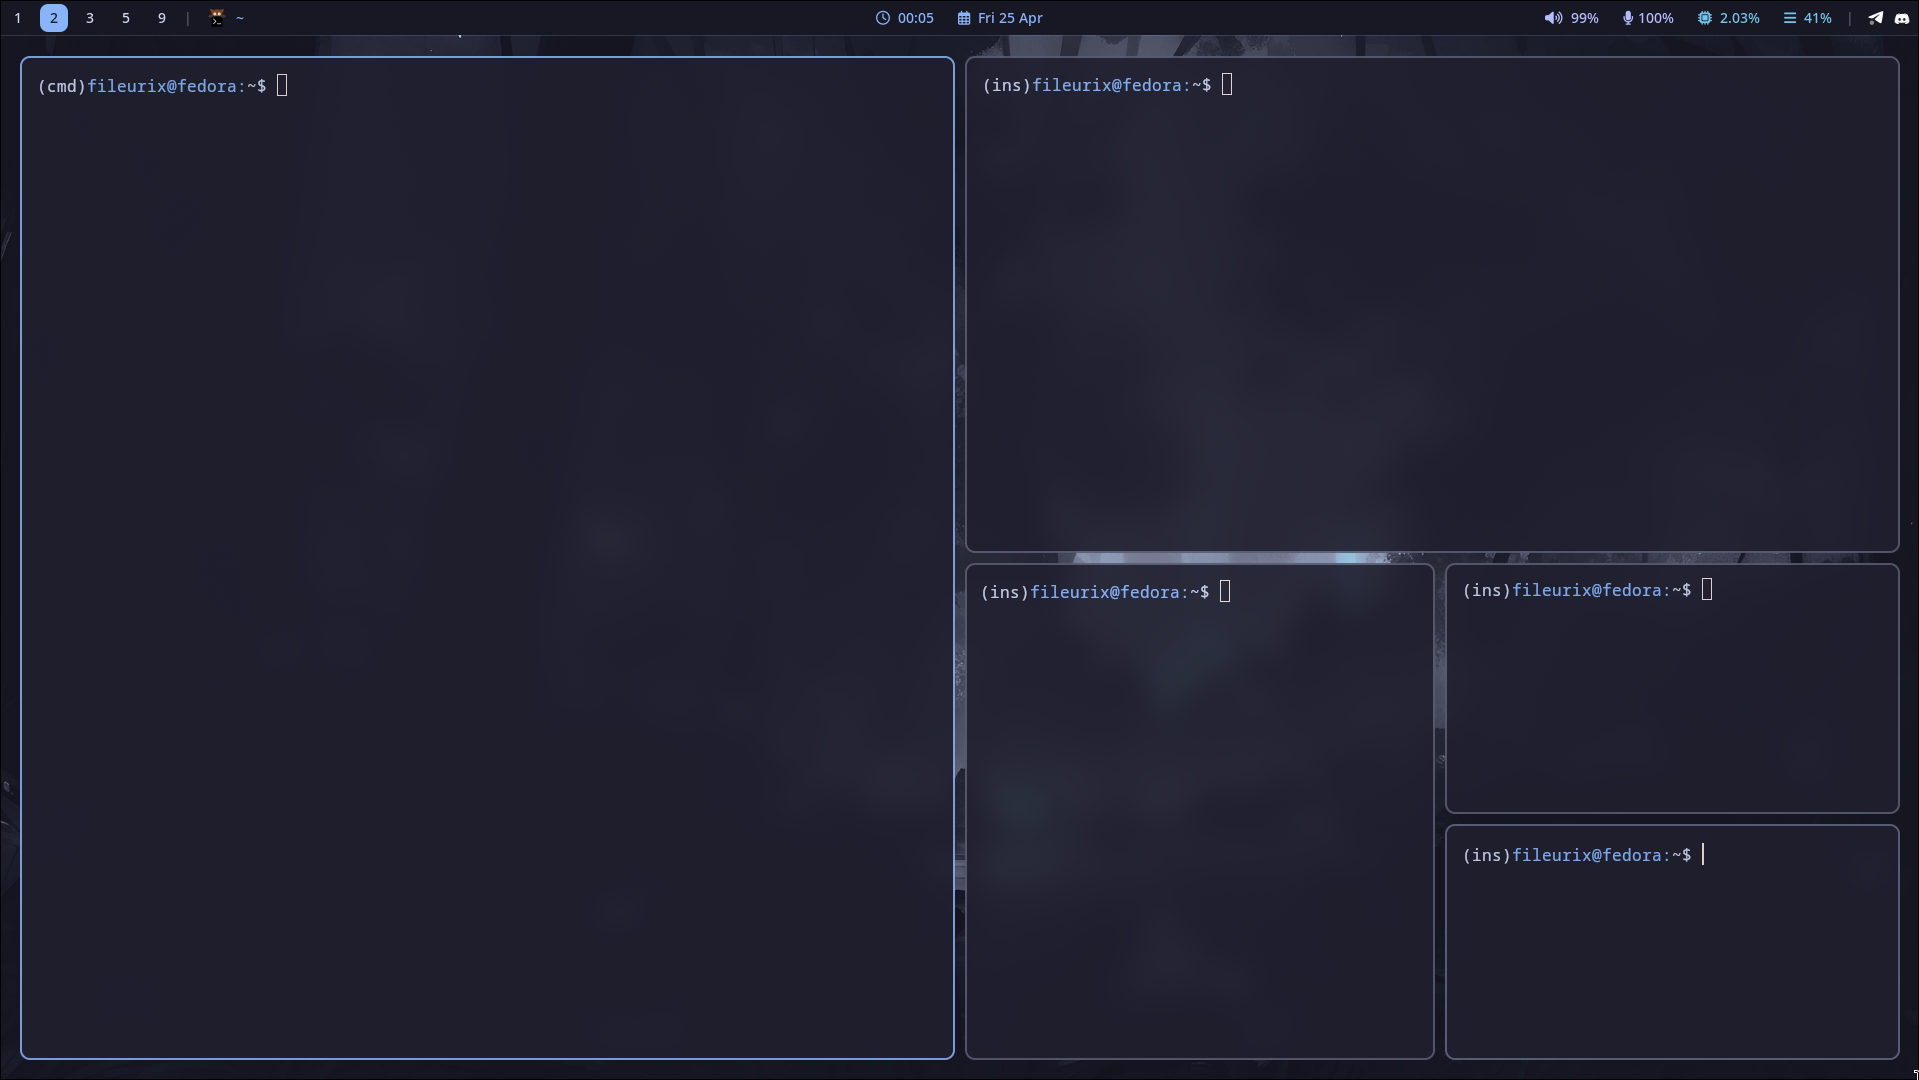
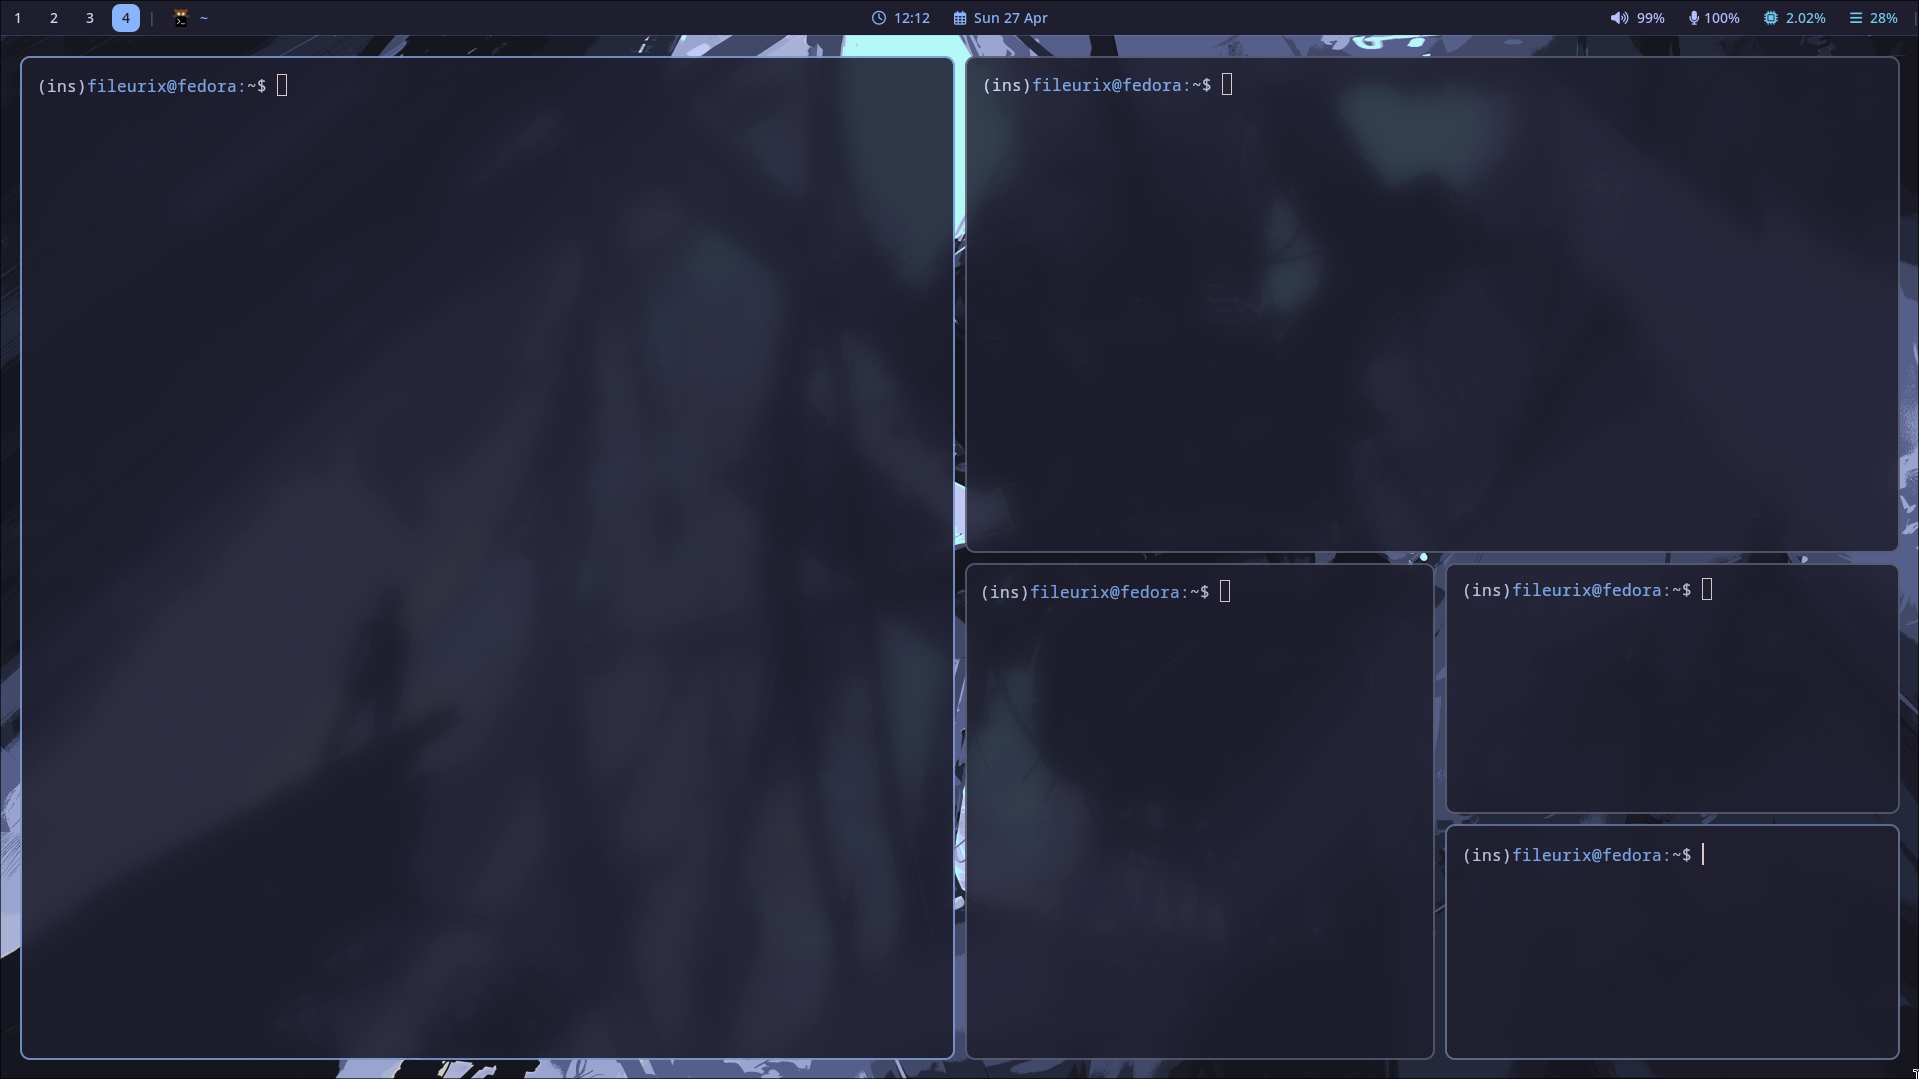
Update dotfiles

diff --git a/config/wofi/style.css b/config/wofi/style.css
@@ -1,68 +1,68 @@
+@import "../themes/mocha.css";
 window {
-    color: #f5f5f5;
+  color: #f5f5f5;
 }
 
 #input {
-    background: transparent;
-    border: none;
-    font-size: 16px;
-    border-radius: 0;
-    padding: 7px;
-    padding-left: 12px;
-    padding-right: 12px;
-    border-bottom: solid 1px rgba(255, 255, 255, 0.07);
-    color: #fafafa;
-    font-weight: 500;
+  background: transparent;
+  border: none;
+  font-size: 16px;
+  border-radius: 0;
+  padding: 7px;
+  padding-left: 12px;
+  padding-right: 12px;
+  border-bottom: solid 1px rgba(255, 255, 255, 0.07);
+  color: @text;
+  font-weight: 500;
 }
 
 #input:focus {
-    box-shadow: none;
+  box-shadow: none;
 }
 
 #outer-box {
-    background: #1e1e2e;
-    border-radius: 7px;
-    border: solid 1px rgba(255, 255, 255, 0.07);
-    padding-bottom: 10px;
+  background: @base;
+  border-radius: 7px;
+  padding-bottom: 10px;
 }
 
 #entry:selected {
-    background: rgba(255, 255, 255, 0.05);
-    color: #fff;
-    border: none;
-    outline: none;
-    box-shadow: none;
+  background: rgba(255, 255, 255, 0.05);
+  color: @text;
+  border: none;
+  outline: none;
+  box-shadow: none;
 }
 
 #entry {
-    padding: 6px;
-    padding-left: 5px;
-    padding-right: 5px;
-    border-radius: 9px;
-    font-size: 14px;
-    min-height: 30px;
+  padding: 6px;
+  padding-left: 5px;
+  padding-right: 5px;
+  border-radius: 9px;
+  font-size: 14px;
+  min-height: 30px;
 }
 
 #scroll {
-    margin-top: 10px;
-    padding-left: 7px;
-    padding-right: 7px;
+  margin-top: 10px;
+  padding-left: 7px;
+  padding-right: 7px;
 }
 
 #img {
-    margin-right: 5px;
+  margin-right: 5px;
 }
 
 #text {
-    font-weight: 500;
-    opacity: 0.9;
+  font-weight: 500;
+  opacity: 0.9;
 }
 
 #input > image.right {
-    color: rgba(255, 255, 255, 0.5);
+  color: rgba(255, 255, 255, 0.5);
 }
 
 #input > image.left {
-    -gtk-icon-transform: scaleX(0);
-    margin-left: -20px;
+  -gtk-icon-transform: scaleX(0);
+  margin-left: -20px;
 }

diff --git a/config/waybar/style.css b/config/waybar/style.css
@@ -1,3 +1,5 @@
+@import "../themes/mocha.css";
+
 * {
   min-height: 0;
   font-family: JetBrainsMono Nerd Font;
@@ -8,7 +10,7 @@
 window#waybar {
   transition-property: background-color;
   transition-duration: 0.5s;
-  background-color: #181825;
+  background-color: @base;
   border-bottom: 1px solid rgba(137, 180, 250, 0.2);
 }
 
@@ -28,23 +30,23 @@ window#waybar.hidden {
   min-height: 0;
   margin: 4px 4px;
   border-radius: 8px;
-  color: #cdd6f4;
+  color: @text;
 }
 
 #workspaces button:hover {
   box-shadow: inherit;
   text-shadow: inherit;
-  color: #1e1e2e;
-  background-color: #cdd6f4;
+  color: @base;
+  background-color: @text;
 }
 
 #workspaces button.active {
-  color: #1e1e2e;
-  background-color: #89b4fa;
+  color: @base;
+  background-color: @blue;
 }
 
 #workspaces button.urgent {
-  background-color: #f38ba8;
+  background-color: @red;
 }
 
 #clock,
@@ -56,12 +58,12 @@ window#waybar.hidden {
   min-height: 0;
   border-radius: 8px;
   margin: 6px 10px;
-  color: #89b4fa;
+  color: @blue;
 }
 
 #custom-sep {
   padding: 0px;
-  color: #585b70;
+  color: @surface2;
 }
 
 window#waybar.empty #window {
@@ -69,50 +71,46 @@ window#waybar.empty #window {
 }
 
 #cpu {
-  color: #74c7ec;
+  color: @sapphire;
 }
 
 #memory {
-  color: #74c7ec;
+  color: @sapphire;
 }
 
 #clock {
-  color: #89b4fa;
+  color: @blue;
 }
 
 #clock.simpleclock {
-  color: #89b4fa;
+  color: @blue;
 }
 
 #window {
-  color: #89b4fa;
+  color: @blue;
 }
 
 #pulseaudio {
-  color: #b4befe;
+  color: @lavender;
 }
 
 #pulseaudio.muted {
-  color: #a6adc8;
-}
-
-#custom-logo {
-  color: #89b4fa;
+  color: @subtext0;
 }
 
 @keyframes blink {
   to {
-    background-color: #f38ba8;
-    color: #181825;
+    background-color: @red;
+    color: @mantle;
   }
 }
 
 tooltip {
   border-radius: 8px;
-  background-color: #1e1e2e;
+  background-color: @base;
 }
 
 #tray menu {
-  background: rgb(24, 24, 37);
+  background: @crust;
   color: white;
 }

diff --git a/config/themes/mocha.css b/config/themes/mocha.css
@@ -1,0 +1,26 @@
+@define-color rosewater #f5e0dc;
+@define-color flamingo #f2cdcd;
+@define-color pink #f5c2e7;
+@define-color mauve #cba6f7;
+@define-color red #f38ba8;
+@define-color maroon #eba0ac;
+@define-color peach #fab387;
+@define-color yellow #f9e2af;
+@define-color green #a6e3a1;
+@define-color teal #94e2d5;
+@define-color sky #89dceb;
+@define-color sapphire #74c7ec;
+@define-color blue #89b4fa;
+@define-color lavender #b4befe;
+@define-color text #cdd6f4;
+@define-color subtext1 #bac2de;
+@define-color subtext0 #a6adc8;
+@define-color overlay2 #9399b2;
+@define-color overlay1 #7f849c;
+@define-color overlay0 #6c7086;
+@define-color surface2 #585b70;
+@define-color surface1 #45475a;
+@define-color surface0 #313244;
+@define-color base #1e1e2e;
+@define-color mantle #181825;
+@define-color crust #11111b;

diff --git a/README.md b/README.md
@@ -27,3 +27,4 @@ python3 install.py mocha blue
 ![screenshot](screenshots/2.png)
 ![screenshot](screenshots/1.png)
 ![screenshot](screenshots/3.png)
+![screenshot](screenshots/4.png)
